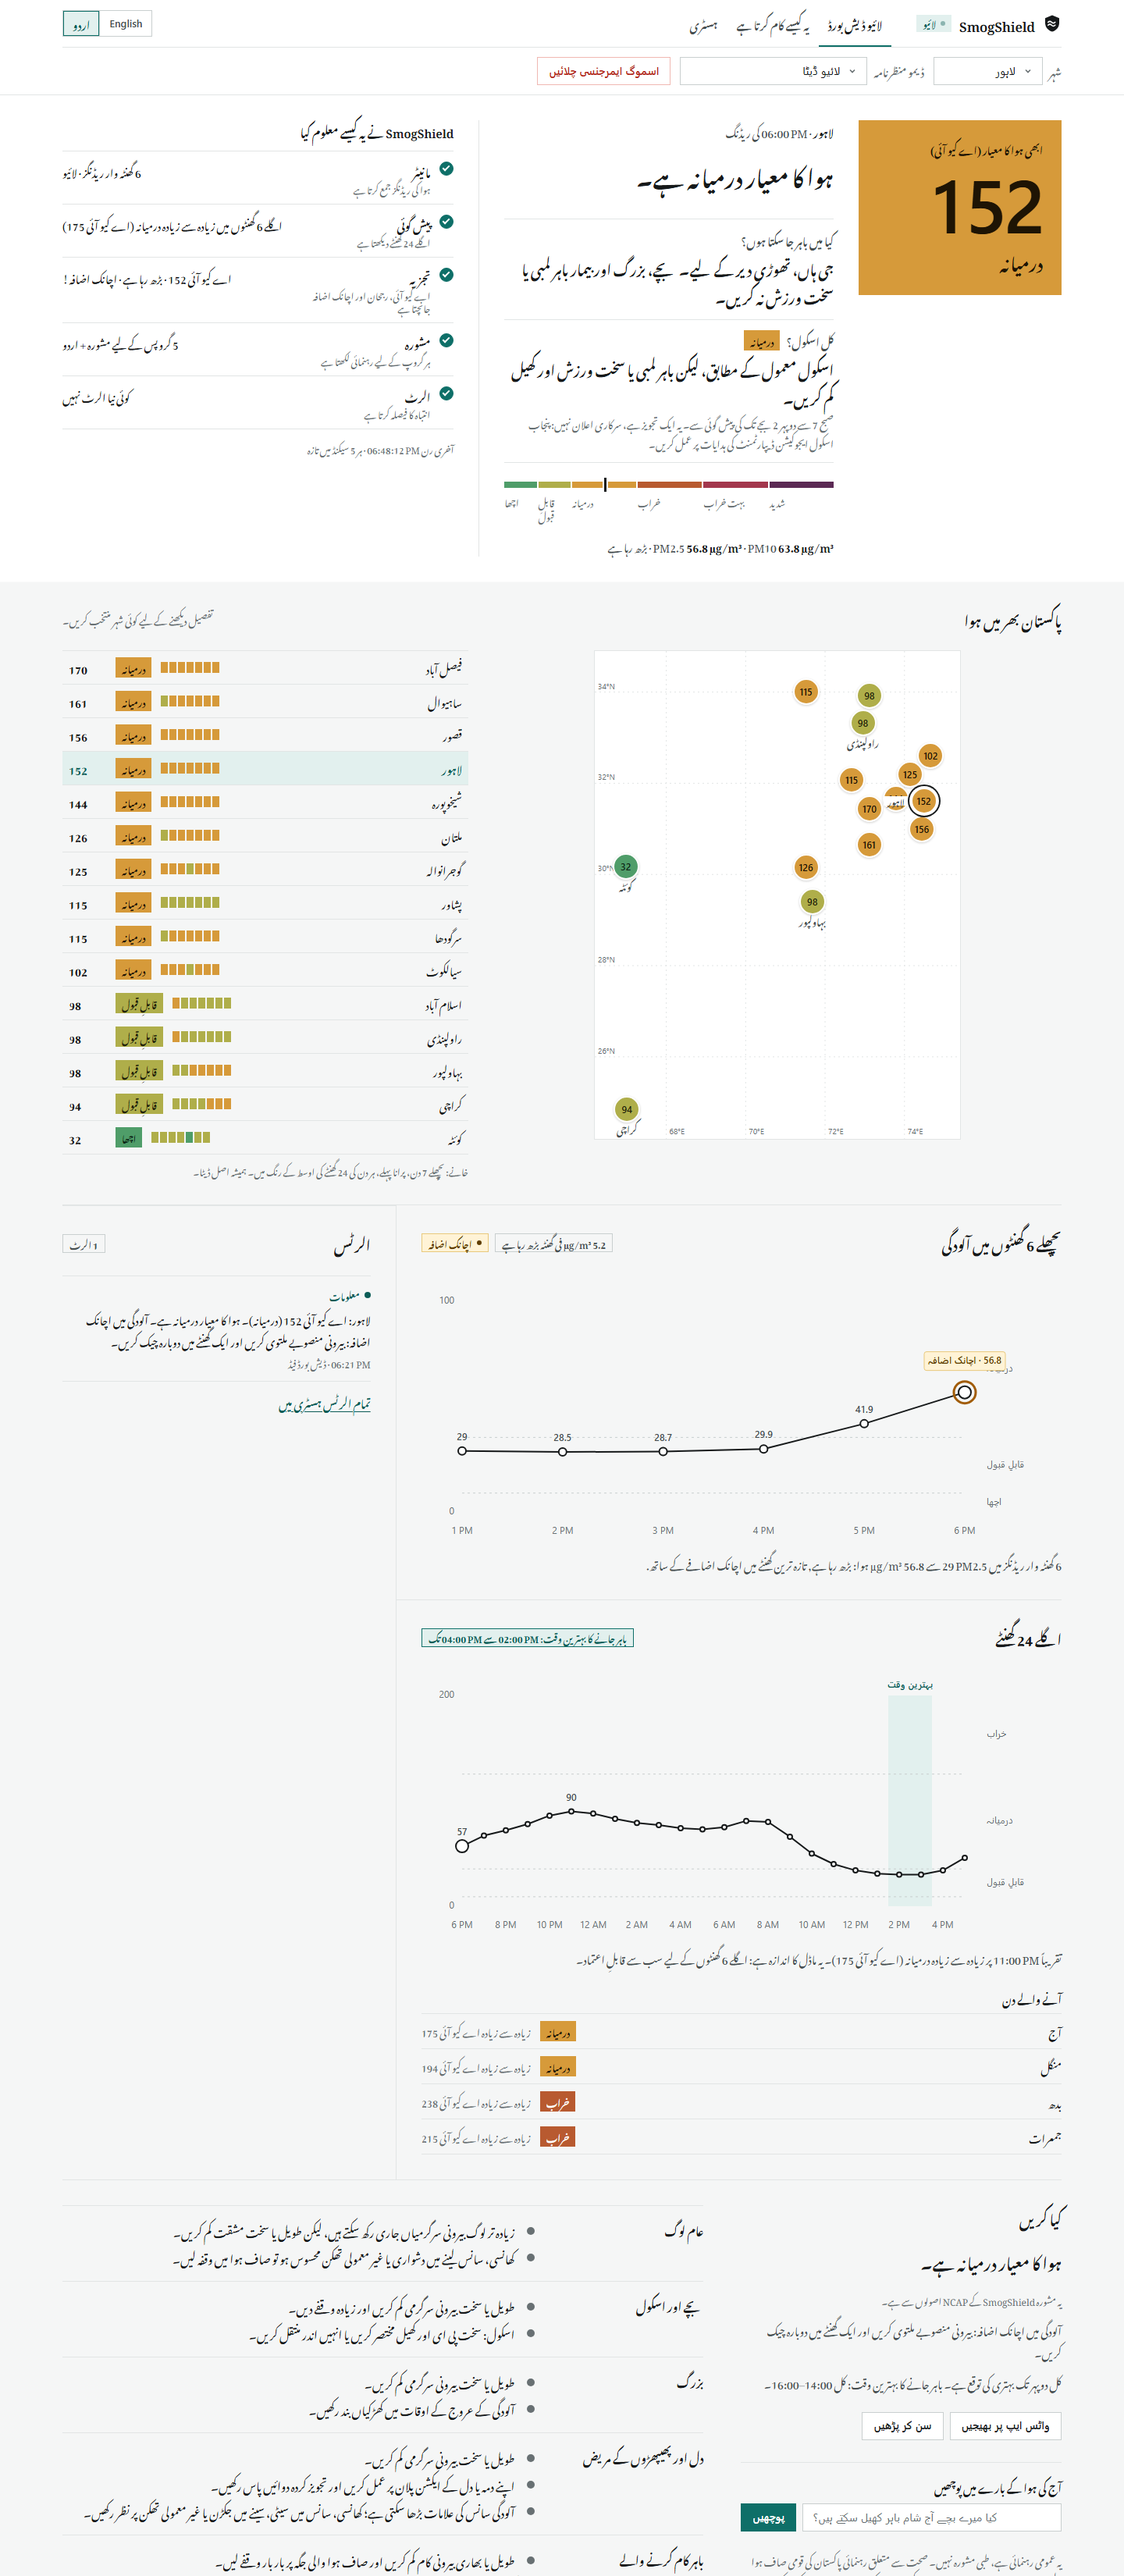
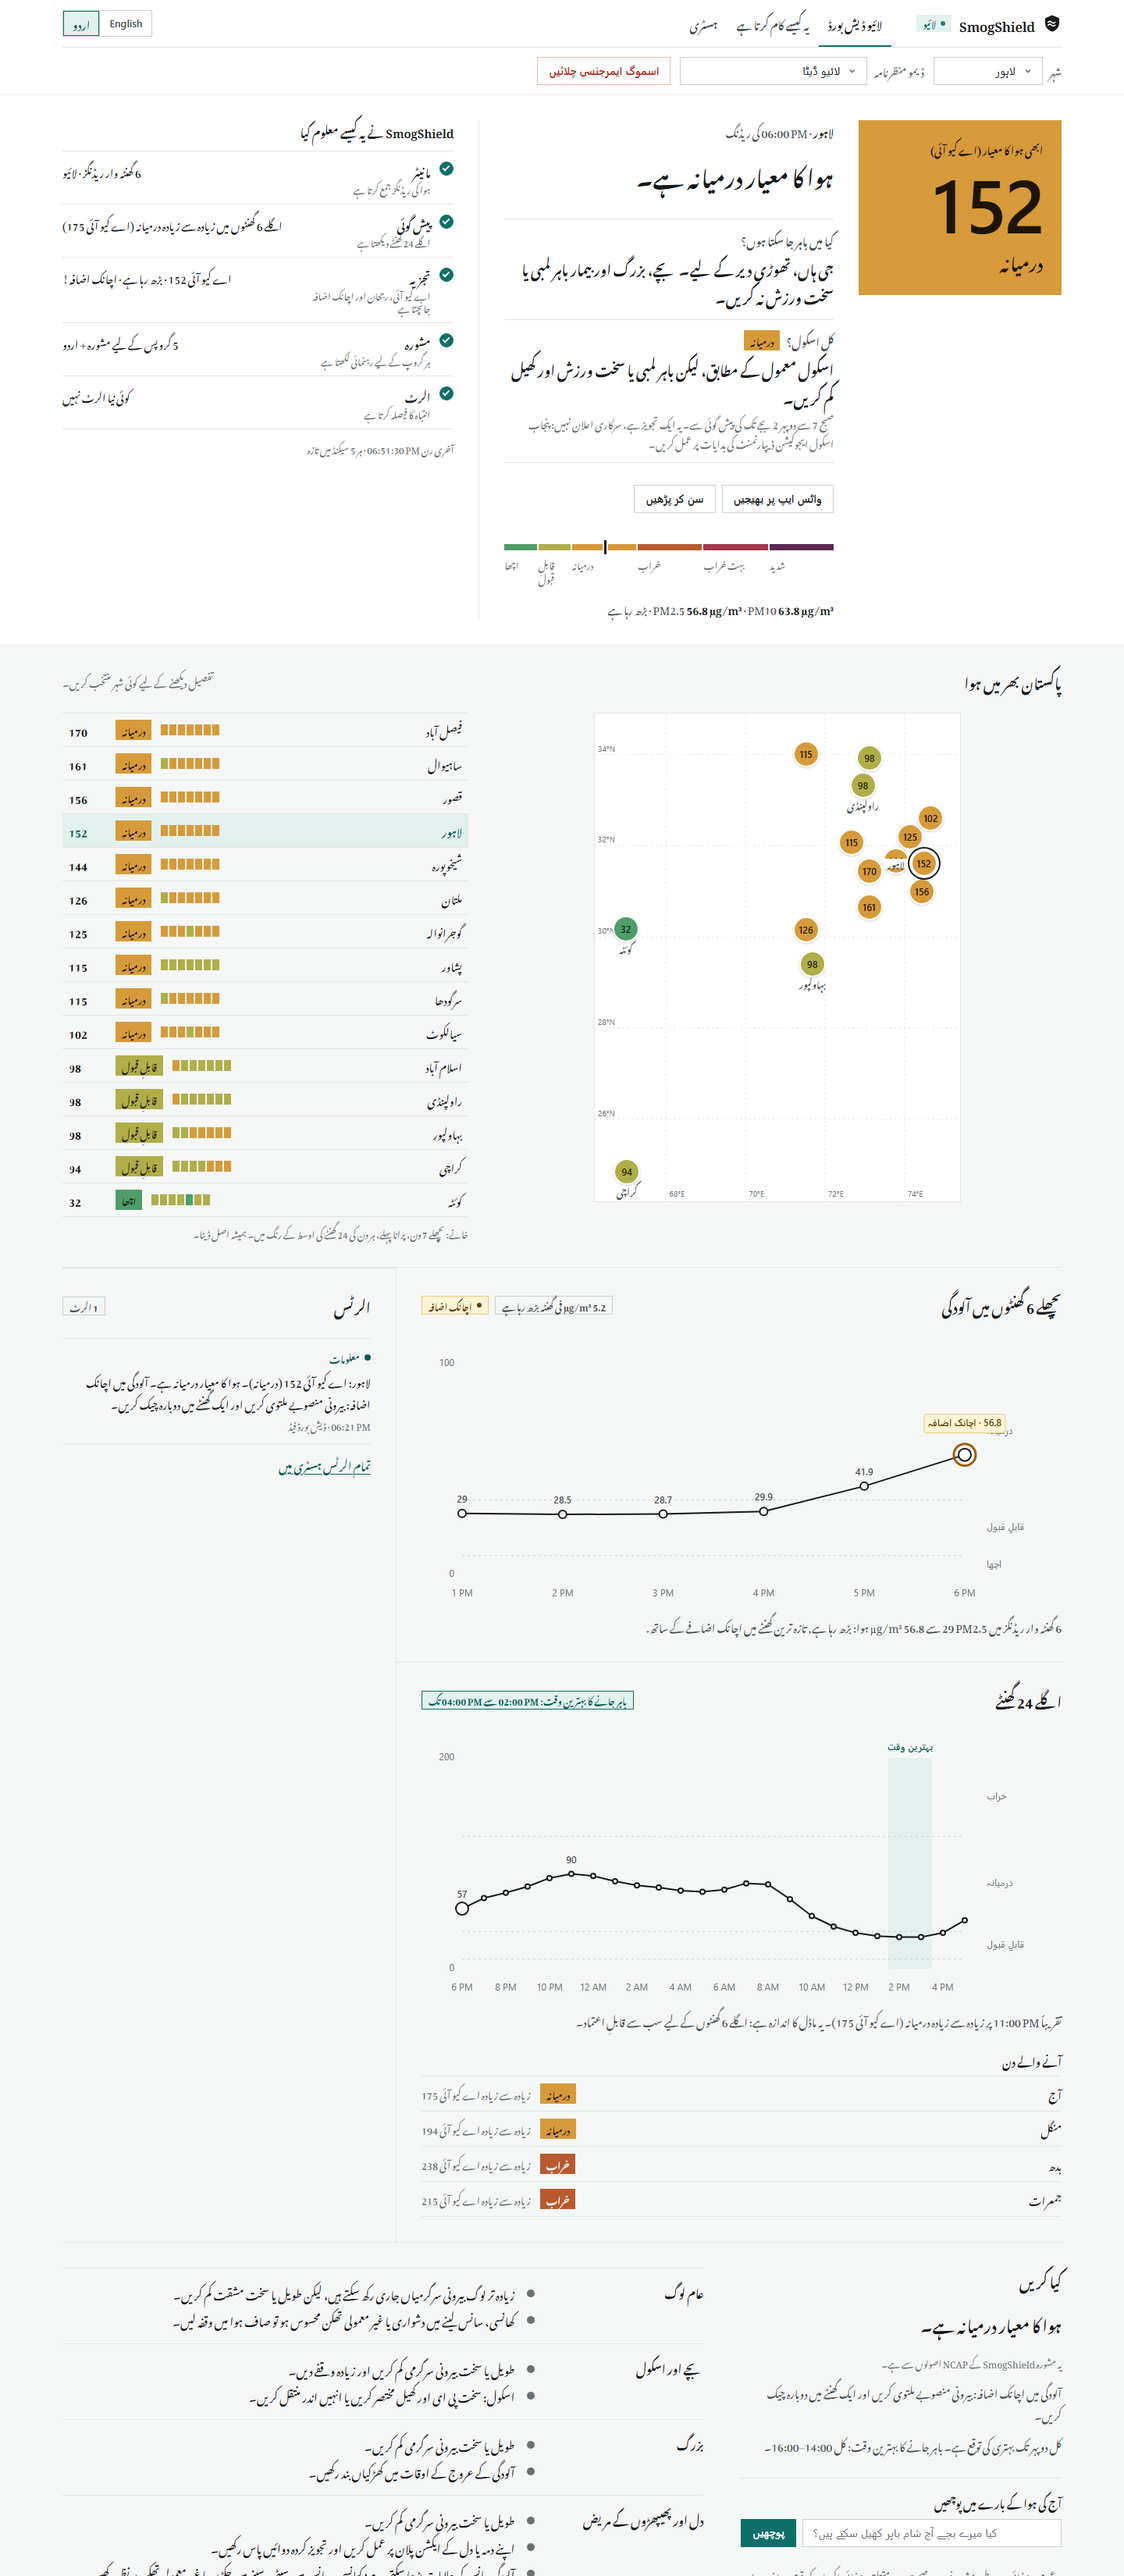
Read aloud and WhatsApp at the top; public-release tidy
- Share and Read aloud sit under the plain answers; Read aloud starts with
  "Can I go outside?" and "Schools tomorrow?"
- .env.example: both Groq lines are needed for the AI advice and the chatbot
- .gitignore: also ignores .env.* (except .env.example) and logs
- requirements.txt: pydantic, which app.py imports directly
- README: GET /api/cities and the Ask response fields

diff --git a/web/index.html b/web/index.html
@@ -74,6 +74,10 @@
               <dd class="answer__note" data-i18n>From the forecast for 7 AM to 2 PM. A suggestion, not an official notice: follow the Punjab School Education Department.</dd>
             </div>
           </dl>
+          <div class="advice__actions hero__actions">
+            <a id="share-wa" class="btn" target="_blank" rel="noopener" hidden data-i18n>Share on WhatsApp</a>
+            <button id="read-aloud" class="btn" type="button" hidden data-i18n>Read aloud</button>
+          </div>
           <div class="scale" aria-hidden="true">
             <div class="scale__bar">
               <span style="--w: 50" data-level="good"></span>
@@ -197,10 +201,6 @@
           <p id="advice-source" class="ask__basis" hidden></p>
           <p id="advice-note" class="advice__note" hidden></p>
           <p id="advice-forecast" class="advice__note" hidden></p>
-          <div class="advice__actions">
-            <a id="share-wa" class="btn" target="_blank" rel="noopener" hidden data-i18n>Share on WhatsApp</a>
-            <button id="read-aloud" class="btn" type="button" hidden data-i18n>Read aloud</button>
-          </div>
           <form id="ask" class="ask" autocomplete="off">
             <label for="ask-input" data-i18n>Ask about today's air</label>
             <div class="ask__row">

diff --git a/web/app.js b/web/app.js
@@ -401,9 +401,17 @@ $("read-aloud").addEventListener("click", () => {
   const s = lastGood || {};
   const urduVoice = speechSynthesis.getVoices().find((v) => v.lang.toLowerCase().startsWith("ur"));
   const useUrdu = LANG === "ur" && urduVoice;
+  // The plain answers first, then the advice for everyone. Without an Urdu voice it reads the English
+  // version, since an English voice can't pronounce Urdu script.
+  const say = useUrdu ? t : (text) => text;
   const adv = useUrdu ? adviceInLanguage(s.advisory) : (s.advisory || {});
-  const text = [adv.headline, ...(adv.audiences?.general || []), useUrdu ? "" : "Children and schools.",
-    ...(adv.audiences?.children || [])].filter(Boolean).join(" ");
+  const level = levelOf(s.analysis || {});
+  const school = s.forecast?.school_day;
+  const text = [
+    say("Can I go outside?"), say(OUTSIDE[level] ?? OUTSIDE.unknown),
+    school?.peak_level in SCHOOL_ADVICE ? `${say("Schools tomorrow?")} ${say(SCHOOL_ADVICE[school.peak_level])}` : "",
+    adv.headline, ...(adv.audiences?.general || []),
+  ].filter(Boolean).join(" ");
   const speech = new SpeechSynthesisUtterance(text);
   speech.lang = useUrdu ? urduVoice.lang : "en-US";
   if (useUrdu) speech.voice = urduVoice;

diff --git a/web/styles.css b/web/styles.css
@@ -133,6 +133,7 @@ a:hover { text-decoration-thickness: 2px; }
 .btn:disabled { opacity: .5; cursor: not-allowed; }
 a.btn { text-decoration: none; }
 .advice__actions { display: flex; flex-wrap: wrap; gap: var(--s2); margin-top: var(--s3); }
+.hero__actions { margin-block: var(--s3) var(--s4); }
 .btn--primary { background: var(--accent); border-color: var(--accent); color: var(--on-ink); }
 .btn--primary:hover:not(:disabled) { background: var(--accent-text); border-color: var(--accent-text); }
 .btn--danger { color: var(--danger); border-color: var(--danger-line); }

diff --git a/README.md b/README.md
@@ -185,12 +185,13 @@ The code is in [`agents/analysis.py`](agents/analysis.py).
 | `GET /` | The live dashboard (Screen 1) |
 | `GET /how` | How it works (Screen 2): the agent pipeline, a live example, data honesty and safeguards |
 | `GET /api/status` | Runs the whole pipeline once and returns `readings`, `forecast`, `analysis`, `advisory`, `alerts` (new alerts from this run). The dashboard polls it every 5 s. |
-| `POST /api/ask` | "Ask SmogShield": body `{"question": "..."}` (1–300 characters, English or Urdu). Runs the pipeline once and asks Groq to answer only from the current reading, forecast, NCAP category and vetted advice. Returns `{"answer", "source"}`; `source` is `ai`, or `off` / `busy` / `down` / `fallback` with a calm message. Needs `LLM_ADVISORY_ENABLED=true` and a Groq key. |
+| `POST /api/ask` | "Ask SmogShield": body `{"question": "..."}` (1–300 characters, English or Urdu). Runs the pipeline once and asks Groq to answer only from the current reading, forecast, NCAP category and vetted advice. Returns `{"answer", "source", "model", "based_on"}`; `source` is `ai`, or `off` / `busy` / `down` / `fallback` with a calm message. Needs `LLM_ADVISORY_ENABLED=true` and a Groq key. |
 | `GET /api/alerts?limit=20` | The alert feed, newest first |
 | `GET /api/scenario` | The forced mock scenario (`live` = none) and the list of options |
 | `POST /api/scenario/{name}` | Demo control: force a scenario, or `live` to go back. Also clears the alert memory so the new scenario alerts right away. Lasts until the server restarts. |
 | `GET /api/city` | The monitored city and the list of known cities |
 | `POST /api/city/{name}` | Switch the monitored city (any case; unknown names give 404). Lasts until the server restarts. |
+| `GET /api/cities` | Every city for the map: latest `aqi`, `level`, `source`, and `past_days` (the last 7 full days from each day's 24-hour average PM2.5, always real data; `null` when it can't be fetched or `USE_MOCK=true`) |
 | `GET /static/...` | Dashboard files from `web/` |
 
 Open the dashboard in Urdu with `http://localhost:8000/?lang=ur` (the language toggle is remembered per browser).
